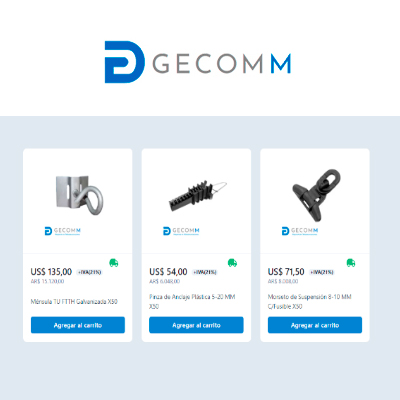
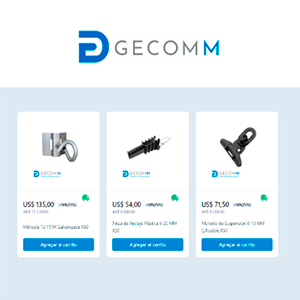
update images, fixed responsive projectCard

diff --git a/src/Projects/ProjectCard.tsx b/src/Projects/ProjectCard.tsx
@@ -1,15 +1,15 @@
-import { Heading, Icon, Flex,  Image, Link, Stack, Text, Badge, Grid, AspectRatio } from "@chakra-ui/react";
+import { Heading, Icon, Flex,  Image, Link, Stack, Text, Badge, Grid, AspectRatio, GridItem } from "@chakra-ui/react";
 import React, { useEffect } from 'react';
 import { FaGithub } from "react-icons/fa";
 import { motion, useAnimation} from "framer-motion"
 import {useInView} from "react-intersection-observer"
 
 const ProjectCard = (props)=> {
-  const MotionFlex = motion(Flex)
+  const MotionGrid = motion(Grid)
 
 
   return(
-    <MotionFlex 
+    <MotionGrid 
     whileHover={{ 
       scale: 1.05, 
       boxShadow: "0 8px 32px 0 rgba(248, 186, 255, 0.25)" }} 
@@ -17,45 +17,55 @@ const ProjectCard = (props)=> {
     direction={["column","column","row","row"]} 
     className='card' 
     rounded={20}
-    w={["90vw","90vw","auto","auto"]}
     maxW="800px"
+    gridTemplateAreas = {{
+      base: `
+      "image image" 
+      "conten content"`, 
+      sm: `
+      "image content" 
+      "image content"` 
+      }}
     >
-      <Link href={props.url} isExternal>
-        <Image 
-        src={props.src}
-        objectFit="cover" 
-        borderBottomRightRadius={["0","0","0","0"]}
-        borderBottomLeftRadius={["0","0","20px","20px"]}
-        borderTopLeftRadius={["20","20","20","20"]}
-        borderTopRightRadius={["20","20","0","0"]}
-        height="100%"
-        width="100%"
-        minW={240}
-        />
-      </Link>
-      <Stack gap={6} px={["6","6","0","0"]} py={6} justifyContent="space-between" alignItems="start">
-        <Stack gap={3} justifyContent="start" alignItems="start">
-          <Link _hover={{textDecoration: "none"}} href={props.url} >
-            <Heading _hover={{color: "purple.500"}} pe={4} fontSize={["22px","22px","30px","30px",]} color="white">{props.title}</Heading>
-          </Link>
-          <Text color="white">{props.description}</Text>
-          
+      <GridItem gridArea="image">
+        <Link href={props.url} isExternal>
+          <Image 
+          src={props.src}
+          objectFit="cover" 
+          borderBottomRightRadius={["0","0","0","0"]}
+          borderBottomLeftRadius={["0","20","20","20"]}
+          borderTopLeftRadius={["20","20","20","20"]}
+          borderTopRightRadius={["20","0","0","0"]}
+          width="100%"
+          height="100%"
+          minW={240}
+          />
+        </Link>
+      </GridItem>
+      <GridItem gridArea="content" px={["6","0","0","0"]} py={6}>
+        <Stack height="100%" justifyContent="space-between">
+          <Stack gap={3}>
+            <Link _hover={{textDecoration: "none"}} href={props.url} >
+              <Heading _hover={{color: "purple.500"}} pe={4} fontSize={["22px","22px","30px","30px",]} color="white">{props.title}</Heading>
+            </Link>
+            <Text color="white">{props.description}</Text>
+          </Stack>
+          <Stack mt={4} direction="row" alignItems="center">
+            <Link
+            href={props.github} 
+            isExternal
+            >
+              <Icon color="white" _hover={{color: "purple.500"}} as={FaGithub} w={8} h={8} />
+            </Link>
+            <Grid 
+            templateColumns='repeat(4, 1fr)' 
+            gap={3}>
+            {props.tech.map((item, index)=><Badge justifySelf="center" key={index}>{item}</Badge>)}
+          </Grid>
+          </Stack>
         </Stack>
-        <Stack direction="row" alignItems="center">
-          <Link
-          href={props.github} 
-          isExternal
-          >
-            <Icon color="white" _hover={{color: "purple.500"}} as={FaGithub} w={8} h={8} />
-          </Link>
-          <Grid 
-          templateColumns='repeat(4, 1fr)' 
-          gap={3}>
-          {props.tech.map((item, index)=><Badge justifySelf="center" key={index}>{item}</Badge>)}
-        </Grid>
-        </Stack>
-      </Stack>
-    </MotionFlex>
+      </GridItem>
+    </MotionGrid>
   )
 }
 export default ProjectCard

diff --git a/src/config.js b/src/config.js
@@ -7,12 +7,12 @@ const config = {
   project4Banner: "/Images/giuseppeBanner.jpg",
   project5Banner: "https://via.placeholder.com/300",
   project6Banner: "/Images/gecommBanner.jpg",
-  project1BannerMobile: "/Images/valobrainBanner16-9.jpg",
-  project2BannerMobile: "/Images/myBlogBanner16-9.jpg",
-  project3BannerMobile: "/Images/myPortfolioBanner16-9.jpg",
-  project4BannerMobile: "/Images/giuseppeBanner16-9.jpg",
+  project1BannerMobile: "/Images/valobrainBanner.jpg",
+  project2BannerMobile: "/Images/myBlogBanner.jpg",
+  project3BannerMobile: "/Images/myPortfolioBanner.jpg",
+  project4BannerMobile: "/Images/giuseppeBanner.jpg",
   project5BannerMobile: "https://via.placeholder.com/300",
-  project6BannerMobile: "/Images/gecommBanner16-9.jpg",
+  project6BannerMobile: "/Images/gecommBanner.jpg",
   project1Github: "https://github.com/pabloramoss/valo-brain",
   project2Github: "https://github.com/pabloramoss/my-blog",
   project3Github: "https://github.com/pabloramoss/portfolio",
